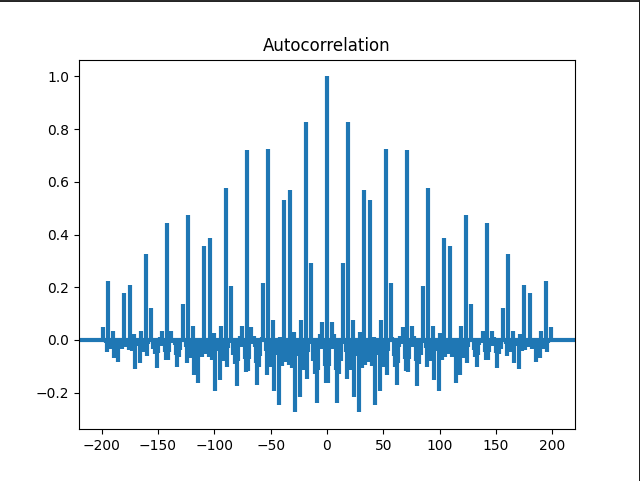
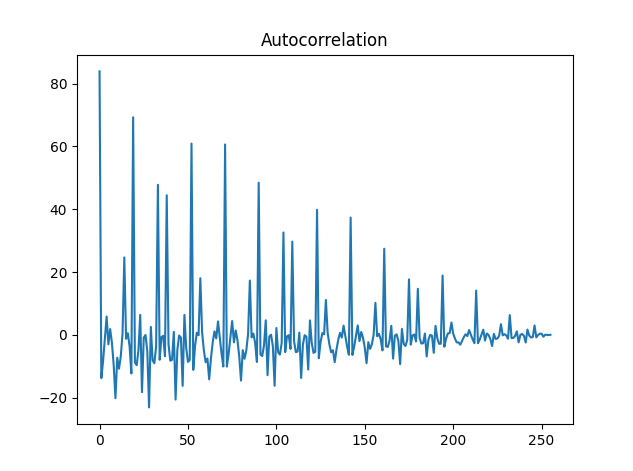
fix corr

Changed region(s): [[0.06, 0.0594, 0.9005, 0.9512], [0.0, 0.0, 1.0, 1.0]]

diff --git a/main.py b/main.py
@@ -32,6 +32,13 @@ def math_expectation(data):
 def dispertion(data):
     return np.var(data)
 
+def crosscorrelation(data1, data2):
+    result = np.correlate(data1, data2, mode='same')
+    return result
+
+def autocorrelation(data):
+    result = np.correlate(data, data, mode='full')
+    return result[result.size // 2:]
 
 n = int(input("Harmonics = "))
 W_max = int(input("Frequency = "))
@@ -47,10 +54,10 @@ plt.figure(2)
 plt.plot(time)
 plt.title('Dependence of time on N')
 plt.figure(3)
-plt.xcorr(signal1, signal2, usevlines=True, normed=True, maxlags=200, lw=3)
+plt.plot(crosscorrelation(signal1, signal2))
 plt.title('Crosscorrelation')
 plt.figure(4)
-plt.acorr(signal1, usevlines=True, normed=True, maxlags=200, lw=3)
+plt.plot(autocorrelation(signal1))
 plt.title('Autocorrelation')
 plt.show()
 print("Math expectation = " + str(math_expectation(signal1)))
